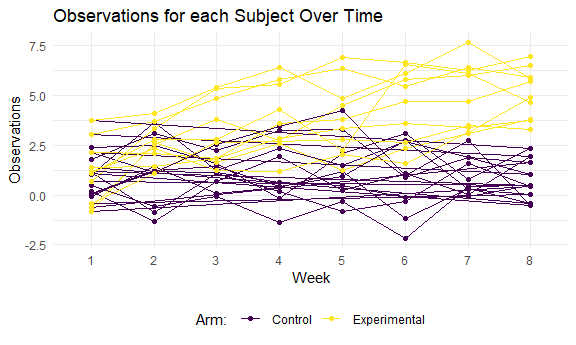
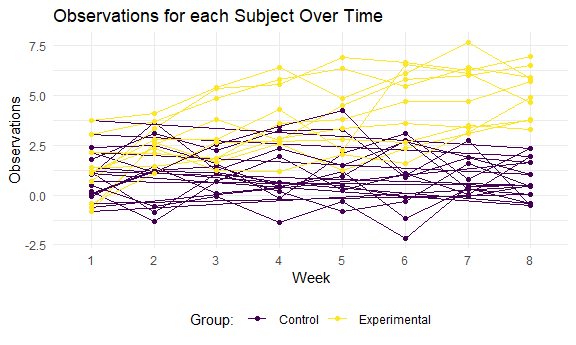
edit

Changed region(s): [[0.4375, 0.8986, 0.75, 0.9565], [0.3125, 0.8986, 0.4062, 0.9565]]

diff --git a/p8105_hw5_sne2114.md b/p8105_hw5_sne2114.md
@@ -490,7 +490,7 @@ study_df %>%
       title = "Observations for each Subject Over Time",
       x = "Week",
       y = "Observations",
-      color = "Arm: ")
+      color = "Group: ")
 ```
 
 <img src="p8105_hw5_sne2114_files/figure-gfm/unnamed-chunk-9-1.png" width="90%" />
